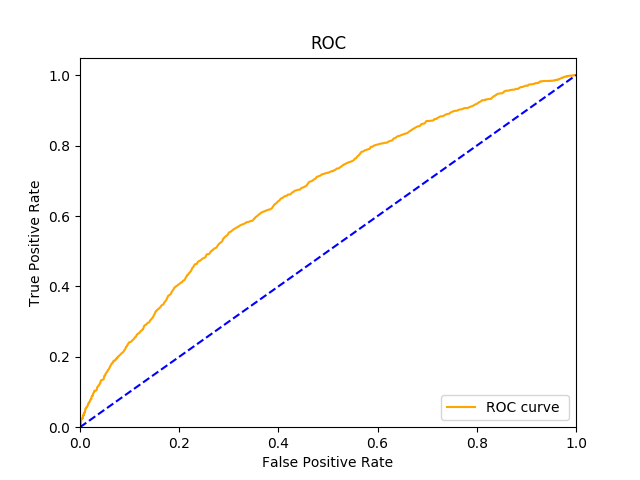
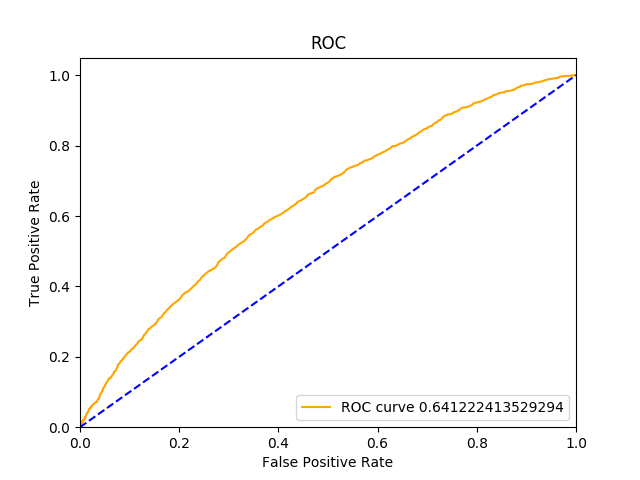
much nicer splitting function used for main, general tidying

diff --git a/random_forests_main.py b/random_forests_main.py
@@ -39,6 +39,8 @@ unsplitX_1 = feature_matrix_1_zeroed.loc[:, feature_matrix_1_zeroed.columns.valu
 
 X_train_1, X_test_1, y_train_1, y_test_1 = train_test_split(unsplitX_1, unsplitY_1, test_size=0.33)
 
+features_1 = len(X_train_1.columns.values)
+
 # nonreduced matrix loading
 
 feature_matrix_2 = pd.read_table("feature_matrix_2.csv", sep=",", index_col=0)
@@ -50,7 +52,9 @@ unsplitX_2 = feature_matrix_2_zeroed.loc[:, feature_matrix_2_zeroed.columns.valu
 
 X_train_2, X_test_2, y_train_2, y_test_2 = train_test_split(unsplitX_2, unsplitY_2, test_size=0.33)
 
-# first probe model
+features_2 = len(X_train_2.columns.values)
+
+# first probe using gradient boosting model
 
 classifier1 = GradientBoostingClassifier(loss='deviance', n_estimators=60)
 classifier1.fit(X_train_1, y_train_1)
@@ -76,16 +80,14 @@ ROC_curve(fpr, tpr, 'ROCgradboost1.png')
 
 # model 2 using much bigger tree ensemble
 
-'''
-classifier2 = RandomForestClassifier(n_jobs=2, n_estimators=10000, max_features=int(sqrt(len(features))), max_depth=None,
-                                     min_samples_split=2)
+classifier2 = RandomForestClassifier(n_jobs=2, n_estimators=10000, max_features=int(sqrt(features_1)), max_depth=None,
+                                     min_samples_split=2, class_weight='balance')
 
-classifier2.fit(train[features], y)
+classifier2.fit(X_train_1, y_test_1)
 
 jb.dump(classifier2, "classifier2.joblib", compress=1)
-'''
 
-classifier2 = jb.load('classifier2.joblib')
+#classifier2 = jb.load('classifier2.joblib')
 
 predictions2 = classifier2.predict(X_test_1)
 
@@ -105,16 +107,14 @@ ROC_curve(fpr, tpr, 'ROC2.png')
 
 # model 3 using nonreduced feature dataset
 
-'''
-classifier3 = RandomForestClassifier(n_jobs=2, n_estimators=10000, max_features=int(sqrt(len(features_2))), max_depth=None,
-                                     min_samples_split=2)
+classifier3 = RandomForestClassifier(n_jobs=2, n_estimators=10000, max_features=int(sqrt(features_2)), max_depth=None,
+                                     min_samples_split=2, class_weight='balanced')
 
 classifier3.fit(X_train_2, y_train_2)
 
 jb.dump(classifier3, "classifier3.joblib", compress=1)
-'''
 
-classifier3 = jb.load("classifier3.joblib")
+#classifier3 = jb.load("classifier3.joblib")
 
 predictions3 = classifier3.predict(X_test_2)
 
@@ -125,11 +125,15 @@ print(crosstab3)
 classifier3_feature_importances = list(zip(X_train_2.columns.values, classifier3.feature_importances_))
 plt.plot(classifier3.feature_importances_)
 
+probabilities3 = classifier3.predict_proba(X_test_2)
+fpr, tpr, thresholds = roc_curve(y_test_1, probabilities3[:,1], pos_label=1)
+ROC_curve(fpr, tpr, 'ROC3.png')
+
 # model 4 using bigger tree ensemble with reduced data
 # does using 10k trees improve over just 1k?
 
-classifier4 = RandomForestClassifier(n_jobs=2, n_estimators=1000, max_features=int(sqrt(len(features))), max_depth=None,
-                                     min_samples_split=2)
+classifier4 = RandomForestClassifier(n_jobs=2, n_estimators=1000, max_features=int(sqrt(features_1)), max_depth=None,
+                                     min_samples_split=2, class_weight='balanced')
 
 classifier4.fit(X_train_1, y_train_1)
 
@@ -140,7 +144,7 @@ jb.dump(classifier4, "classifier4.joblib", compress=1)
 predictions4 = classifier4.predict(X_test_1)
 
 # see how many incorrect classifications we do
-crosstab4 = pd.crosstab(X_test_1, predictions4, rownames=['Actual'], colnames=['Predicted'])
+crosstab4 = pd.crosstab(y_test_1, predictions4, rownames=['Actual'], colnames=['Predicted'])
 print(crosstab4)
 # print a matrix of tuples of feature names and feature importances
 classifier4_feature_importances = (zip(X_test_1.columns.values, classifier4.feature_importances_))
@@ -174,7 +178,17 @@ ROC_curve(fpr, tpr, 'ROC4.png')
 
 # model 5 using bigger tree ensemble with non-reduced data
 
-classifier5 = RandomForestClassifier(n_jobs=2, n_estimators=1000, max_features=int(sqrt(len(features))), max_depth=None,
-                                     min_samples_split=2)
+classifier5 = RandomForestClassifier(n_jobs=2, n_estimators=1000, max_features=int(sqrt(features_2)), max_depth=None,
+                                     min_samples_split=2, class_weight='balanced')
 
 classifier5.fit(X_train_2, y_train_2)
+
+jb.dump(classifier5, "classifier5.joblib", compress=1)
+
+predictions5 = classifier5.predict(X_test_2)
+crosstab5 = pd.crosstab(y_test_2, predictions5, rownames=['Actual'], colnames=['Predicted'])
+classifier5_feature_importances = (zip(X_test_2.columns.values, classifier5.feature_importances_))
+plt.plot(classifier5.feature_importances_)
+probabilities5 = classifier5.predict_proba(X_test_2)
+fpr, tpr, thresholds = roc_curve(y_test_2, probabilities5[:,1], pos_label=1)
+ROC_curve(fpr, tpr, 'ROC5.png')
